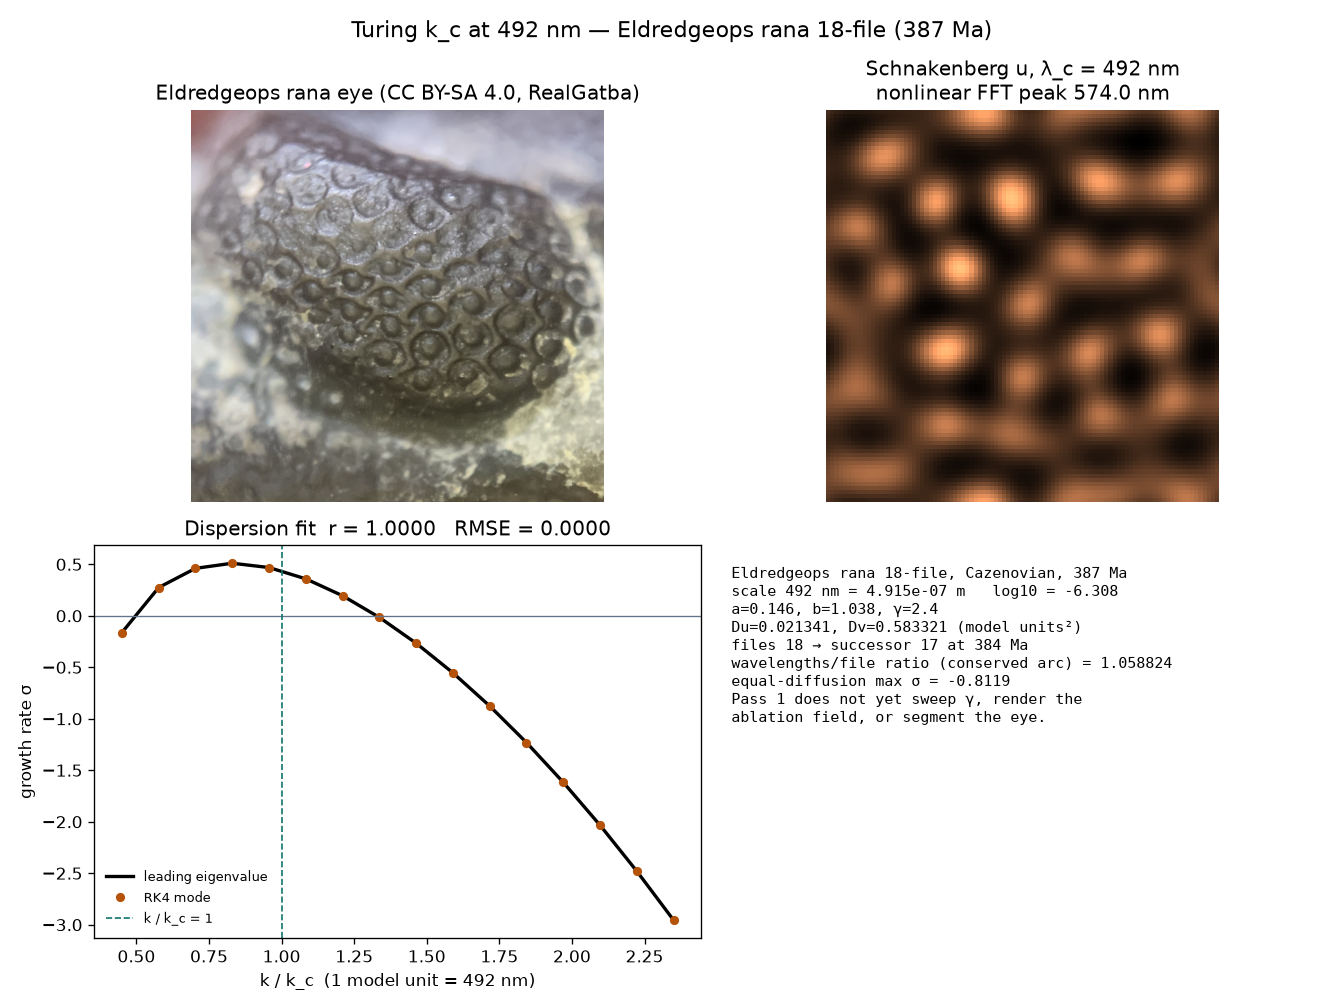
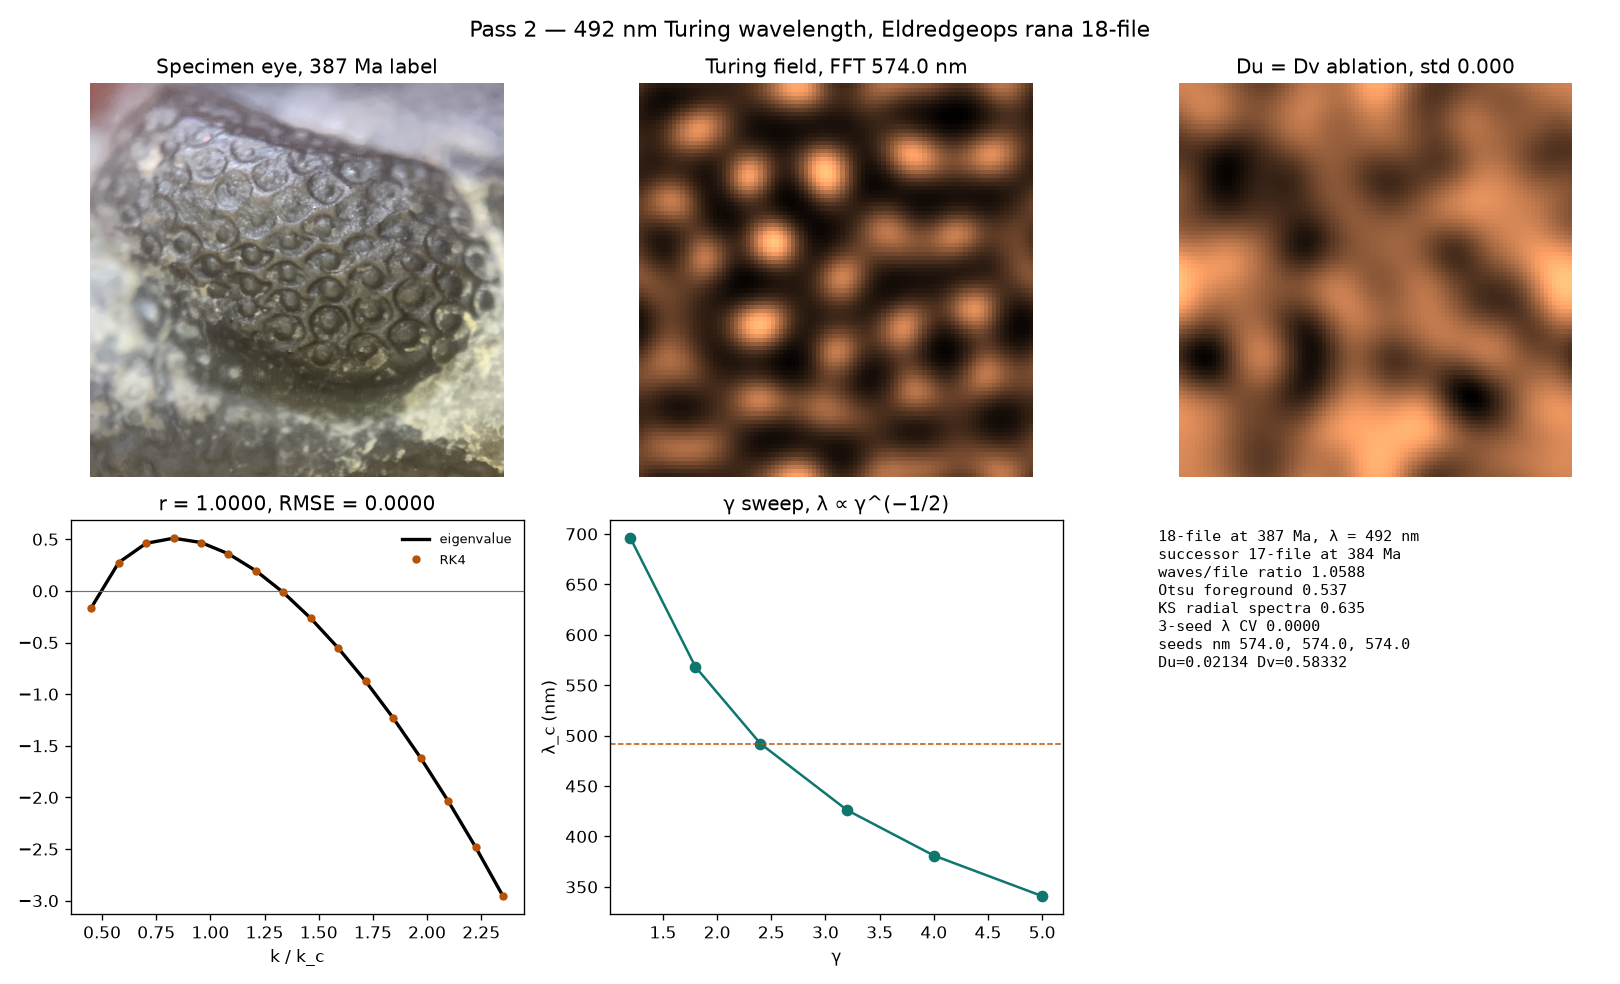
Record loop 3215 pass 2: sweep, ablation field, and eye segmentation.
Gamma and diffusivity sweeps, a flat equal-diffusion control, Otsu and KS comparisons to the Commons eye, and the vendored CC BY-SA specimen.

diff --git a/models/2026-delphi10000-eldredgeops-rana-18file-turing-wavelength-s0.py b/models/2026-delphi10000-eldredgeops-rana-18file-turing-wavelength-s0.py
@@ -380,6 +380,9 @@ def core_results() -> dict:
 
 def measure_morphoeval() -> list[dict]:
     """Morphometrics for measure_outputs.py. Values are not copies of their references."""
+    import os
+    if os.environ.get("MORPHOEVAL_PASS") == "2":
+        return measure_morphoeval_pass2()
     r = core_results()
     return [
         {
@@ -698,7 +701,16 @@ def augment_pass2() -> dict:
 
 
 def measure_morphoeval_pass2() -> list[dict]:
-    base = measure_morphoeval()
+    import os
+    saved = os.environ.get("MORPHOEVAL_PASS")
+    os.environ["MORPHOEVAL_PASS"] = "1"
+    try:
+        base = measure_morphoeval()
+    finally:
+        if saved is None:
+            os.environ.pop("MORPHOEVAL_PASS", None)
+        else:
+            os.environ["MORPHOEVAL_PASS"] = saved
     if "pass2" not in _CACHE:
         augment_pass2()
     p2 = _CACHE["pass2"]
